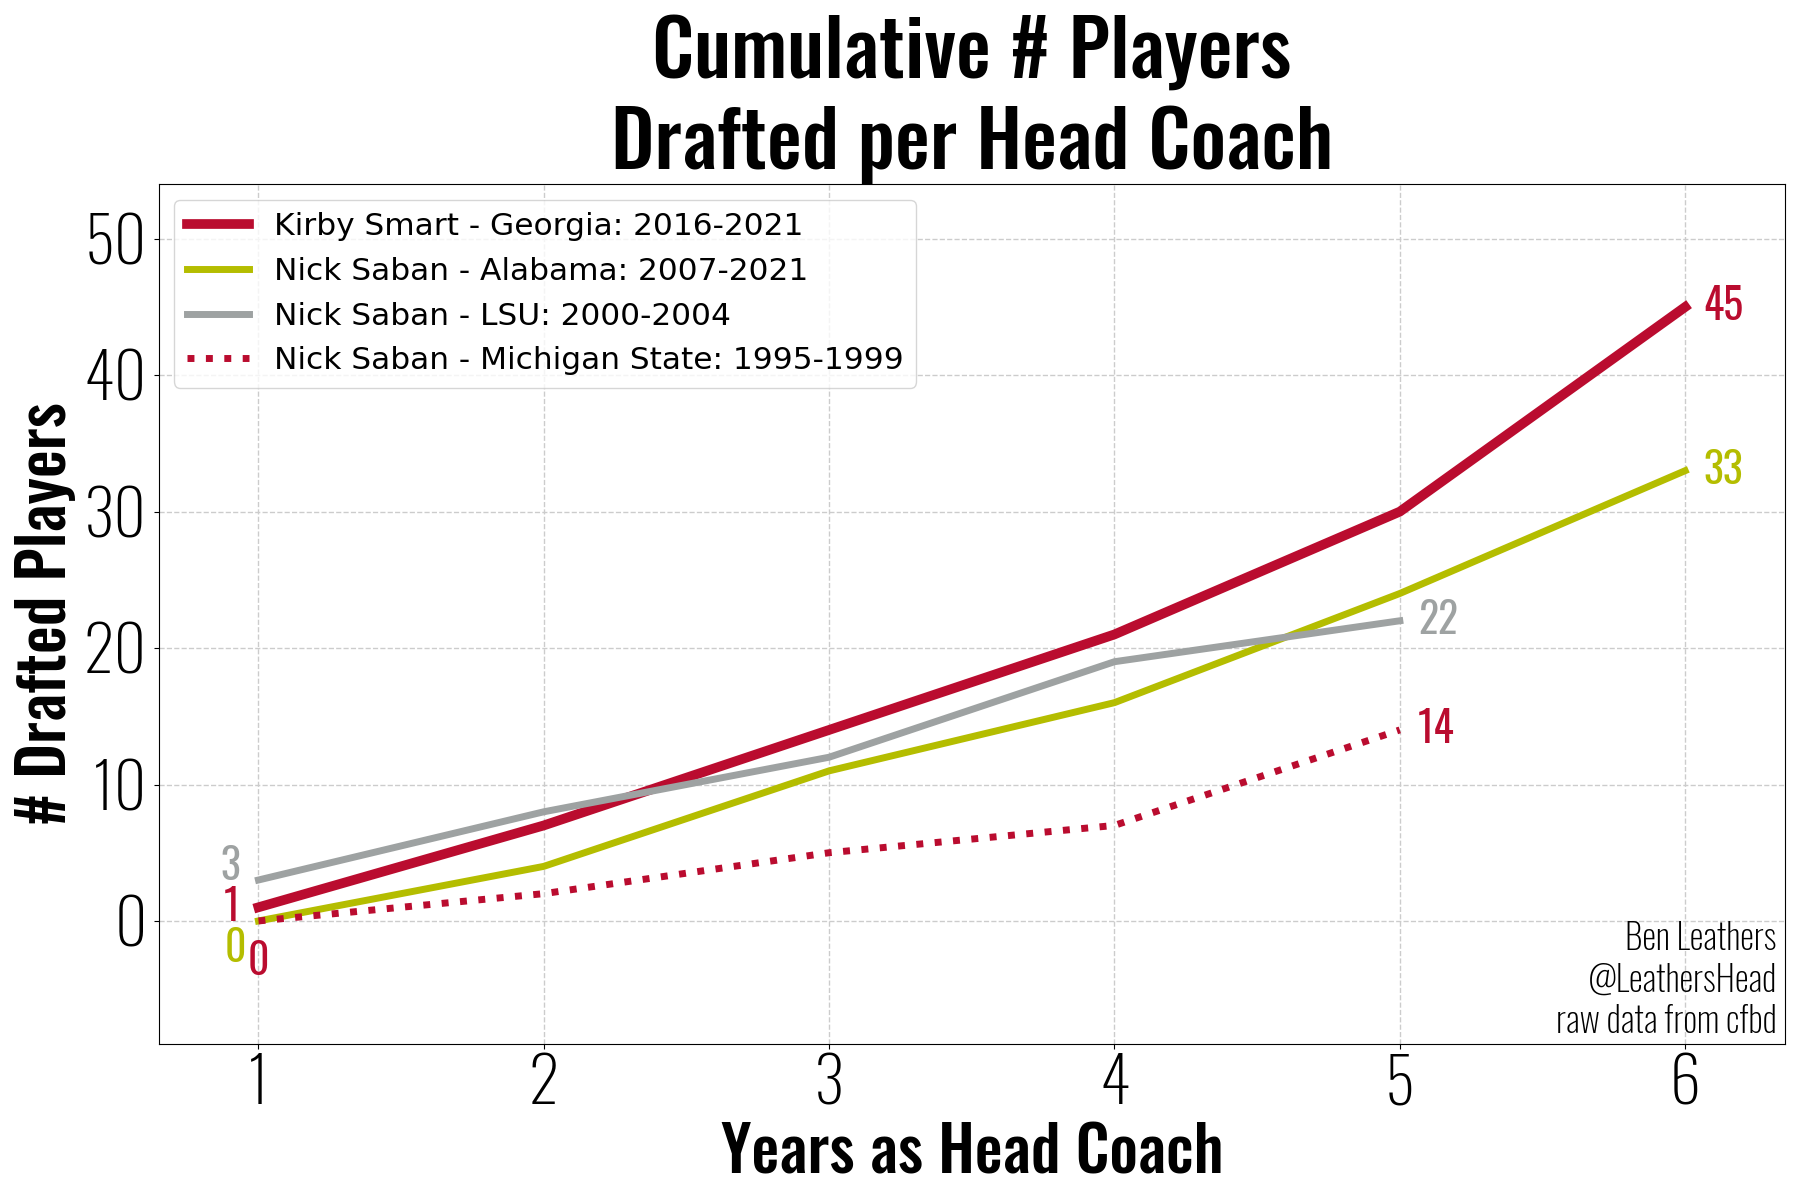
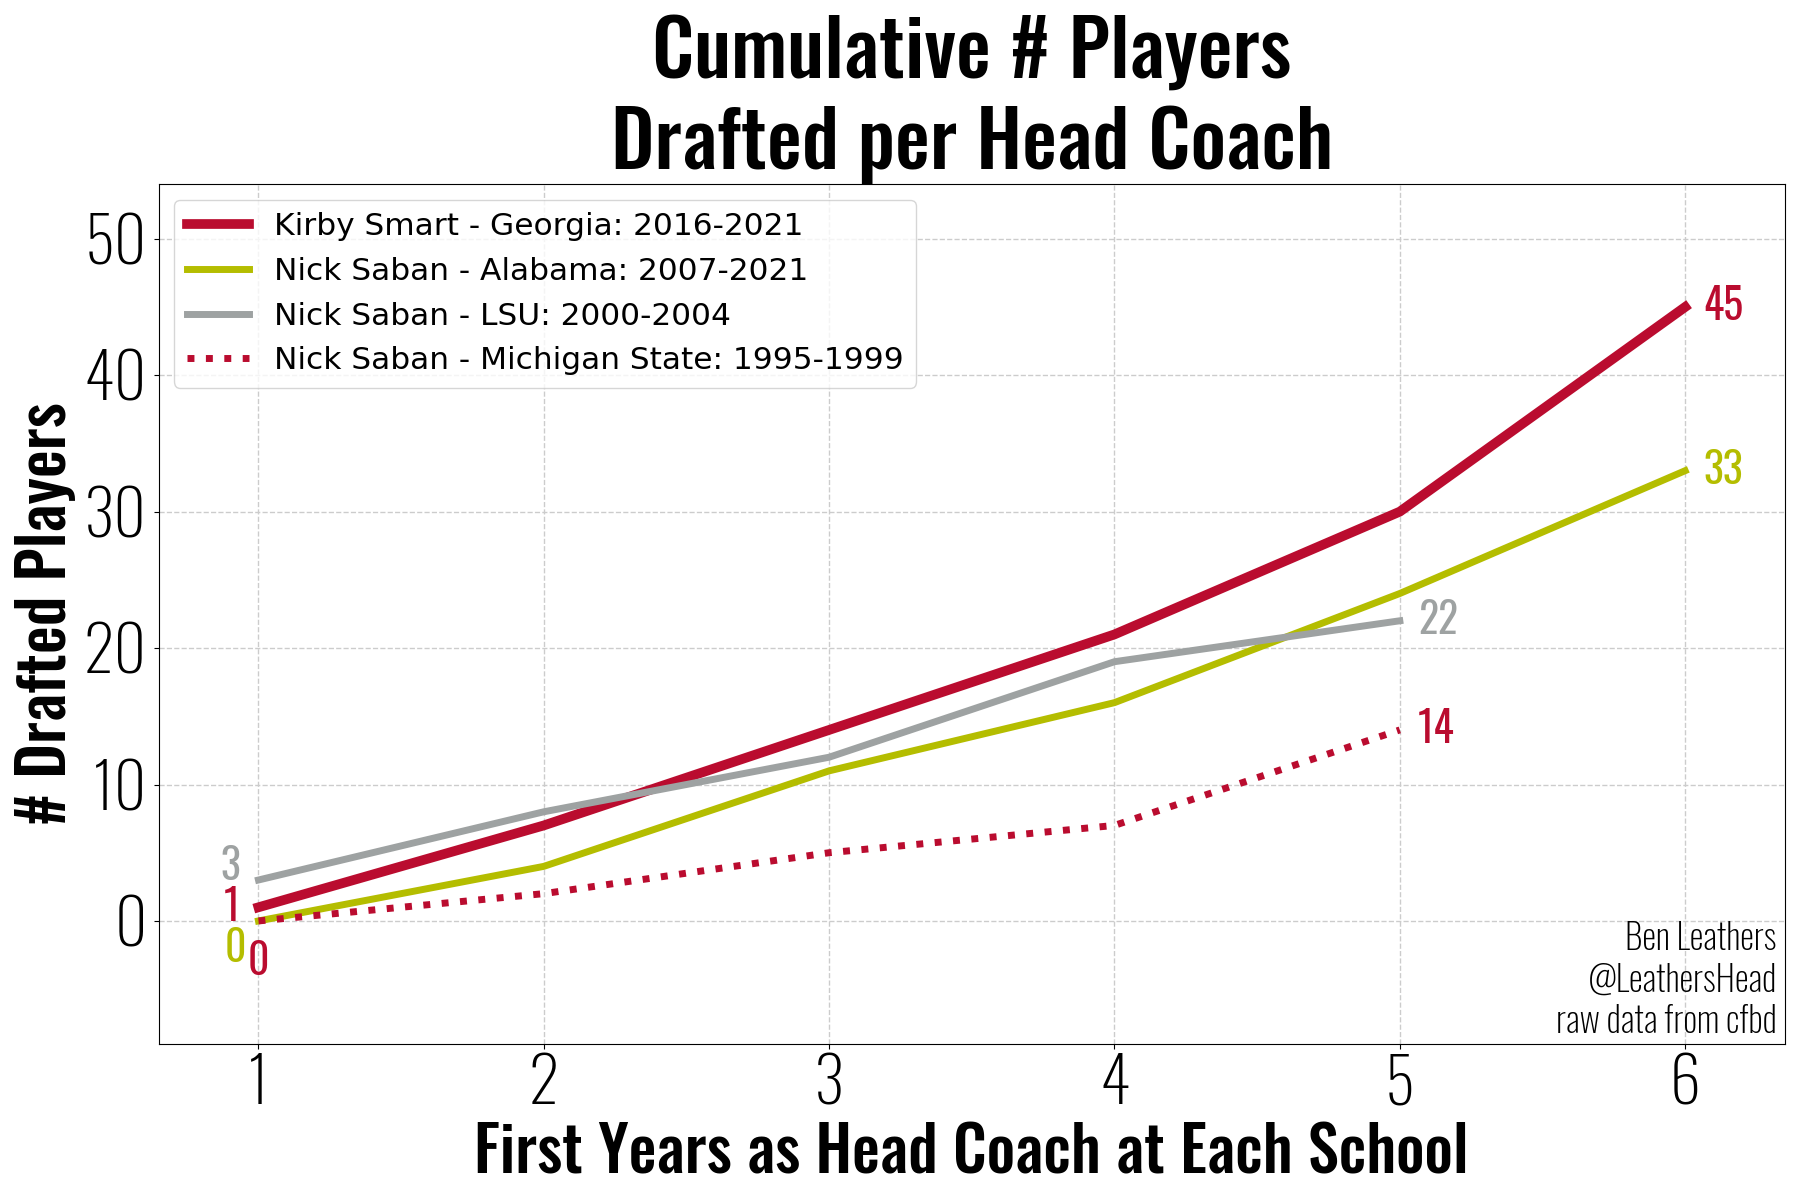
Edits to 2023 Kirby pre draft review

Changed region(s): [[0.2489, 0.925, 0.84, 0.9867]]

diff --git a/2023_pre_draft_review.html b/2023_pre_draft_review.html
@@ -86,42 +86,61 @@ ul.task-list li input[type="checkbox"] {
 }
 </style>
 <h1 style="font-family:Merriweather Sans">
-Kirby’s Draft Production
+Nick Saban won’t be the G.O.A.T.
 </h1>
 <h3 style="font-family:Merriweather Sans" class="anchored">
-How well has UGA put players into the draft under Kirby?
+An NFL Draft Perspective
 </h3>
+<div style="font-family:Merriweather Sans">
+By: Ben Leathers
+</div>
+<div style="font-family:Merriweather Sans">
+2023-04-17
+</div>
+<p><br><br></p>
+<div style="font-family:Merriweather Sans">
+Clickbait headline aside, Nick Saban is unquestionably the greatest coach in history. However, the interesting thing about “all time” is that it includes the future. Kirby Smart is only 7 seasons into his career as a head coach, and he’s been quite prolific when it comes to putting players into the draft. How has his career start compared to other coaches beginning their careers, including Nick Saban?
+</div>
+<p><br><br></p>
+<h3 style="font-family:Merriweather Sans" class="anchored">
+How well has UGA put players into the draft while Kirby Smart has been the head coach?
+</h3>
+<p><br><br></p>
 <p><img src="kirby_first_six.png" class="img-fluid"></p>
+<p><br><br></p>
 <div style="font-family:Merriweather Sans">
 Wow… could that <i>“up and to the right”</i> trajectory suggest that Kirby’s good at player development?
 </div>
 <div style="font-family:Merriweather Sans">
 You might be thinking to yourself… “No, it just suggests he’s recruiting better players” which is a reasonable thing to think. Mark Richt is no question a DGD, and he elevated the program during his tenure. That being said, Kirby inherited a roster whose previous 3 recruiting classes had an average ranking of ~9th in the country, whereas Kirby has averaged rankings of ~3 as head coach of UGA. So you would be justified to argue that this upward trajectory just points to better recruiting. But is there more to the story?
 </div>
+<p><br><br></p>
 <p><img src="uga_draft_by_star.png" class="img-fluid"></p>
-<div style="font-family:Merriweather Sans">
-It’s not just better players. Even the 3 stars are more likely to get drafted the longer they play under Kirby.
-</div>
 <div style="font-family:Merriweather Sans">
 It’s not just better players. Even the 3 stars are more likely to get drafted the longer they play under Kirby.
 </div>
 <h3 style="font-family:Merriweather Sans" class="anchored">
 How do UGA’s Draft results during Kirby’s first 6 years compare to other coach’s first 6 years?
 </h3>
+<p><br><br></p>
 <p><img src="top_num_draft_picks_through_first_6_years_as_head_coach.png" class="img-fluid"></p>
 <div style="font-family:Merriweather Sans">
-Seeing Jimbo Fisher at #5 was surprising to begin with, but then I remembered he’s got a reputation for recruiting and he’s developing a reputation for losing recruits now that the transfer portal is a factor. Mark Richt at #6 is less surprising, he was a great coach who did put a lot of talent into the NFL and was a great coach.
+Seeing Jimbo Fisher at #5 was surprising to begin with, but then I remembered he’s got a reputation for recruiting and he’s developing a reputation for losing recruits now that the transfer portal is a factor. Mark Richt at #6 is less surprising, he was a great coach who did put a lot of talent into the NFL.
 </div>
+<p><br><br></p>
 <h3 style="font-family:Merriweather Sans" class="anchored">
 So how did Larry Coker and Jim Tressel out perform Kirby in the first 6 years?
 </h3>
+<p><br><br></p>
 <p><img src="top_3_num_draft_picks_through_first_6_years_as_head_coach_line.png" class="img-fluid"></p>
 <div style="font-family:Merriweather Sans">
 Oh, they stepped into programs with loaded rosters that put 8 and 11 players into the NFL in year 1. Kirby didn’t inherit a completely bare roster, but it was certainly more modest.
 </div>
+<p><br><br></p>
 <h3 style="font-family:Merriweather Sans" class="anchored">
 How many UGA players will need to be drafted in order for Kirby to jump into first in year 7?
 </h3>
+<p><br><br></p>
 <p><img src="top_num_draft_picks_through_first_7_years_as_head_coach.png" class="img-fluid"></p>
 <h3 style="font-family:Merriweather Sans" class="anchored">
 What Happened to Larry Coker?
@@ -129,15 +148,19 @@ What Happened to Larry Coker?
 <div style="font-family:Merriweather Sans">
 He got fired from Miami after going 6-6 and didn’t coach again until 2012 when he was hired by UTSA.
 </div>
+<p><br><br></p>
 <h3 style="font-family:Merriweather Sans" class="anchored">
 Let’s check on some coaches that are noticibly absent from the top ten.
 </h3>
+<p><br><br></p>
 <p><img src="6_years_other_head_coaches.png" class="img-fluid"></p>
 <div style="font-family:Merriweather Sans">
-In fairness to Saban and Spurrier they didn’t start their heach coaching careers at a blue blood football school, so lets compare the results from each school tenure.
+In fairness to Saban he didn’t start his heach coaching careers at a blue blood football school, so lets compare the results from each school tenure.
 </div>
+<p><br><br></p>
 <p><img src="smart_v_saban_draft.png" class="img-fluid"></p>
-<p><img src="smart_v_spurrier_draft.png" class="img-fluid"></p>
+<!-- ![](smart_v_spurrier_draft.png) -->
+<p><br><br></p>
 <h1 style="font-family:Merriweather Sans">
 Takeaways:
 </h1>
@@ -145,14 +168,14 @@ Takeaways:
 Kirby’s program develops players.
 </h2>
 <h2 style="font-family:Merriweather Sans" class="anchored">
-Kirby’s Death Star might not even been fully operational yet… 🤯
+Kirby’s Death Star might not have even been fully operational yet… 🤯
 </h2>
 <h2 style="font-family:Merriweather Sans" class="anchored">
-Saban will not be the G.O.A.T.
+“All Time” includes the future, and while Saban might be the greatest in history, Kirby is on the path to take over and when it’s all said and done…
 </h2>
-<h2 style="font-family:Merriweather Sans" class="anchored">
-“All Time” includes the future, and while Saban might be the greatest in history, Kirby is on the path to take over and when it’s all said and done, Kirby will be the G.O.A.T.
-</h2>
+<h1 style="font-family:Merriweather Sans">
+Saban will not be the G.O.A.T., Kirby will.
+</h1>
 <div style="font-family:Merriweather Sans">
 This analysis was based on an open source dataset, cfbd, and while I’m confident in my work, I am also confident I’m human, so if you find a mistake, please let me know.
 </div>

diff --git a/2023_Draft_Kirby_Death Star_Fully_Operational.html b/2023_Draft_Kirby_Death Star_Fully_Operational.html
@@ -86,11 +86,50 @@ ul.task-list li input[type="checkbox"] {
 }
 </style>
 <h1 style="font-family:Merriweather Sans">
-Kirby’s Draft Production
+Nick Saban won’t be the G.O.A.T.
 </h1>
 <h3 style="font-family:Merriweather Sans" class="anchored">
-How well has UGA put players into the draft under Kirby?
+An NFL Draft Perspective
 </h3>
+<div style="font-family:Merriweather Sans">
+By: Ben Leathers
+</div>
+<div style="font-family:Merriweather Sans">
+2023-04-17
+</div>
+<div>
+
+</div>
+<div>
+
+</div>
+<div>
+
+</div>
+<div>
+
+</div>
+<div style="font-family:Merriweather Sans">
+Clickbait headline aside, Nick Saban is unquestionably the greatest coach in history. However, the interesting thing about “all time” is that it includes the future. Kirby Smart is only 7 seasons into his career as a head coach, and he’s been quite prolific when it comes to putting players into the draft. How has his career start compared to other coaches beginning their careers, including Nick Saban?
+</div>
+<div>
+
+</div>
+<div>
+
+</div>
+<h3 style="font-family:Merriweather Sans" class="anchored">
+How well has UGA put players into the draft while Kirby Smart has been the head coach?
+</h3>
+<div>
+
+</div>
+<div>
+
+</div>
+<div>
+
+</div>
 <p><img src="kirby_first_six.png" class="img-fluid"></p>
 <div style="font-family:Merriweather Sans">
 Wow… could that <i>“up and to the right”</i> trajectory suggest that Kirby’s good at player development?
@@ -102,15 +141,12 @@ You might be thinking to yourself… “No, it just suggests he’s recruiting b
 <div style="font-family:Merriweather Sans">
 It’s not just better players. Even the 3 stars are more likely to get drafted the longer they play under Kirby.
 </div>
-<div style="font-family:Merriweather Sans">
-It’s not just better players. Even the 3 stars are more likely to get drafted the longer they play under Kirby.
-</div>
 <h3 style="font-family:Merriweather Sans" class="anchored">
 How do UGA’s Draft results during Kirby’s first 6 years compare to other coach’s first 6 years?
 </h3>
 <p><img src="top_num_draft_picks_through_first_6_years_as_head_coach.png" class="img-fluid"></p>
 <div style="font-family:Merriweather Sans">
-Seeing Jimbo Fisher at #5 was surprising to begin with, but then I remembered he’s got a reputation for recruiting and he’s developing a reputation for losing recruits now that the transfer portal is a factor. Mark Richt at #6 is less surprising, he was a great coach who did put a lot of talent into the NFL and was a great coach.
+Seeing Jimbo Fisher at #5 was surprising to begin with, but then I remembered he’s got a reputation for recruiting and he’s developing a reputation for losing recruits now that the transfer portal is a factor. Mark Richt at #6 is less surprising, he was a great coach who did put a lot of talent into the NFL.
 </div>
 <h3 style="font-family:Merriweather Sans" class="anchored">
 So how did Larry Coker and Jim Tressel out perform Kirby in the first 6 years?
@@ -134,7 +170,7 @@ Let’s check on some coaches that are noticibly absent from the top ten.
 </h3>
 <p><img src="6_years_other_head_coaches.png" class="img-fluid"></p>
 <div style="font-family:Merriweather Sans">
-In fairness to Saban and Spurrier they didn’t start their heach coaching careers at a blue blood football school, so lets compare the results from each school tenure.
+In fairness to Saban he didn’t start his heach coaching careers at a blue blood football school, so lets compare the results from each school tenure.
 </div>
 <p><img src="smart_v_saban_draft.png" class="img-fluid"></p>
 <p><img src="smart_v_spurrier_draft.png" class="img-fluid"></p>
@@ -145,14 +181,14 @@ Takeaways:
 Kirby’s program develops players.
 </h2>
 <h2 style="font-family:Merriweather Sans" class="anchored">
-Kirby’s Death Star might not even been fully operational yet… 🤯
+Kirby’s Death Star might not have even been fully operational yet… 🤯
 </h2>
 <h2 style="font-family:Merriweather Sans" class="anchored">
-Saban will not be the G.O.A.T.
+“All Time” includes the future, and while Saban might be the greatest in history, Kirby is on the path to take over and when it’s all said and done…
 </h2>
-<h2 style="font-family:Merriweather Sans" class="anchored">
-“All Time” includes the future, and while Saban might be the greatest in history, Kirby is on the path to take over and when it’s all said and done, Kirby will be the G.O.A.T.
-</h2>
+<h1 style="font-family:Merriweather Sans">
+Saban will not be the G.O.A.T., Kirby will.
+</h1>
 <div style="font-family:Merriweather Sans">
 This analysis was based on an open source dataset, cfbd, and while I’m confident in my work, I am also confident I’m human, so if you find a mistake, please let me know.
 </div>
